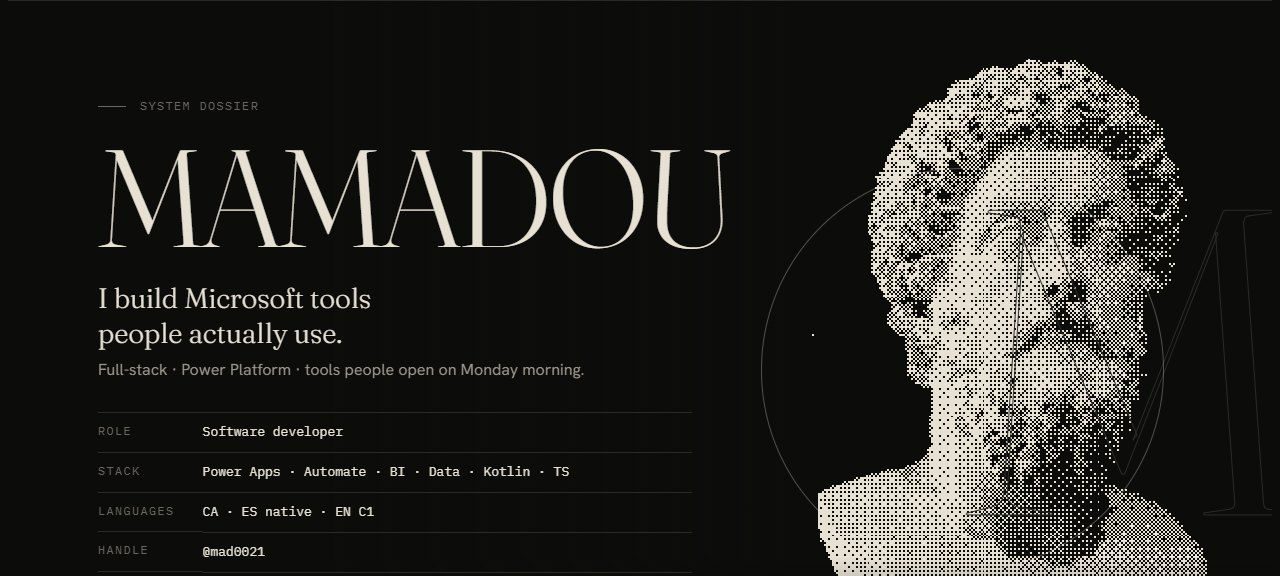
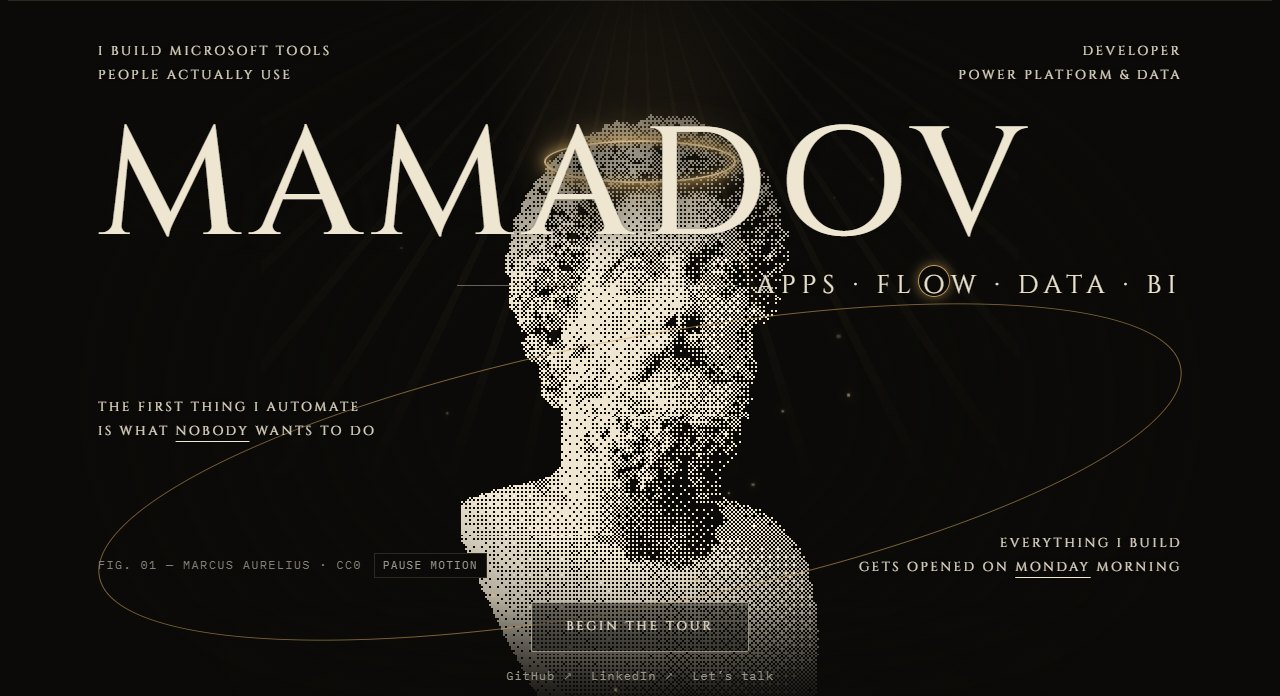
docs: refresh header with the new portfolio hero

diff --git a/README.md b/README.md
@@ -1,5 +1,5 @@
 <a href="https://mad0021.github.io/?lang=en">
-  <img src="./assets/hero.jpg" alt="MADEV / 021: system dossier with a dithered marble bust" width="100%" />
+  <img src="./assets/hero.jpg" alt="MAMADOV: a dithered marble bust under a beam of light, with a halo and an orbit line" width="100%" />
 </a>
 
 ### Software developer, Power Platform & data
